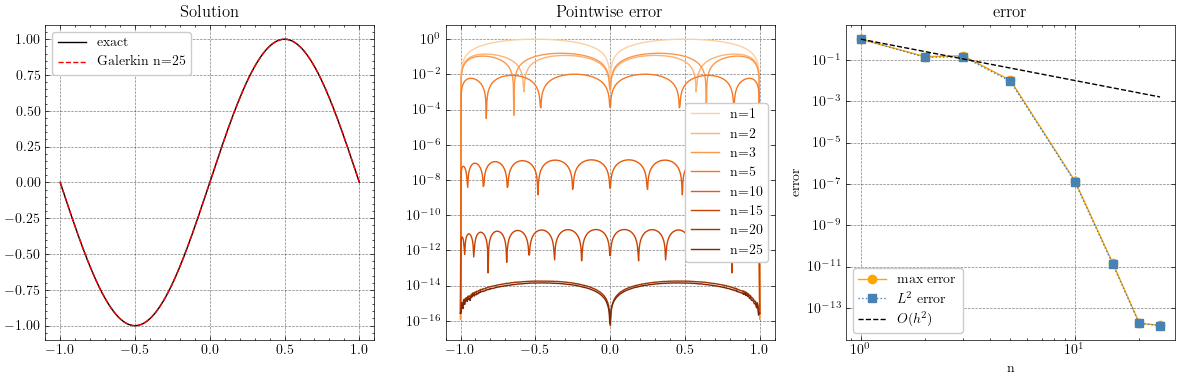
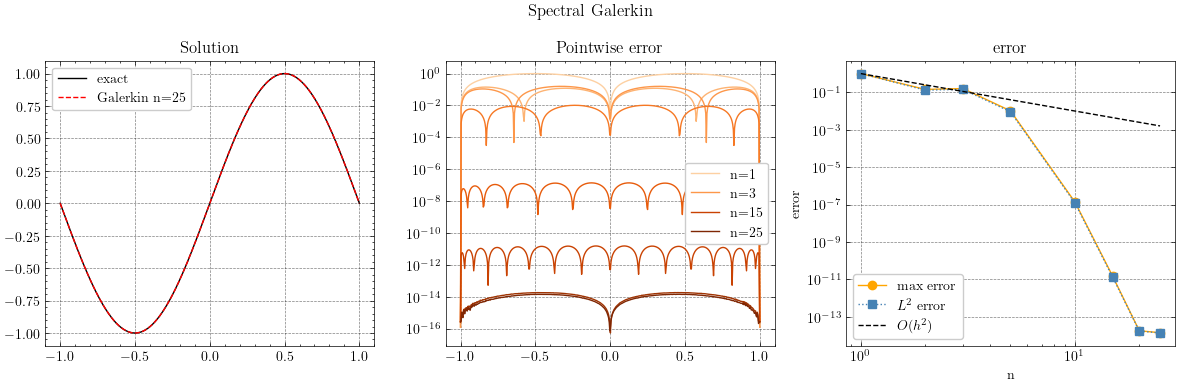
updated plots

diff --git a/README.md b/README.md
@@ -4,4 +4,4 @@ Trying out some FEM Galerkin methods for solving ODEs and PDEs with different se
 
 ![simple ODE with hat functions](results/galerkin.png)
 ![simple ODE with legendre polynomials](results/spectral-galerkin.png)
-![diffusion-convection equatoin](results/galerkinW-diffusion-convection.png)
+![diffusion-convection equatoin](results/galerkin-diffusion-convection.png)